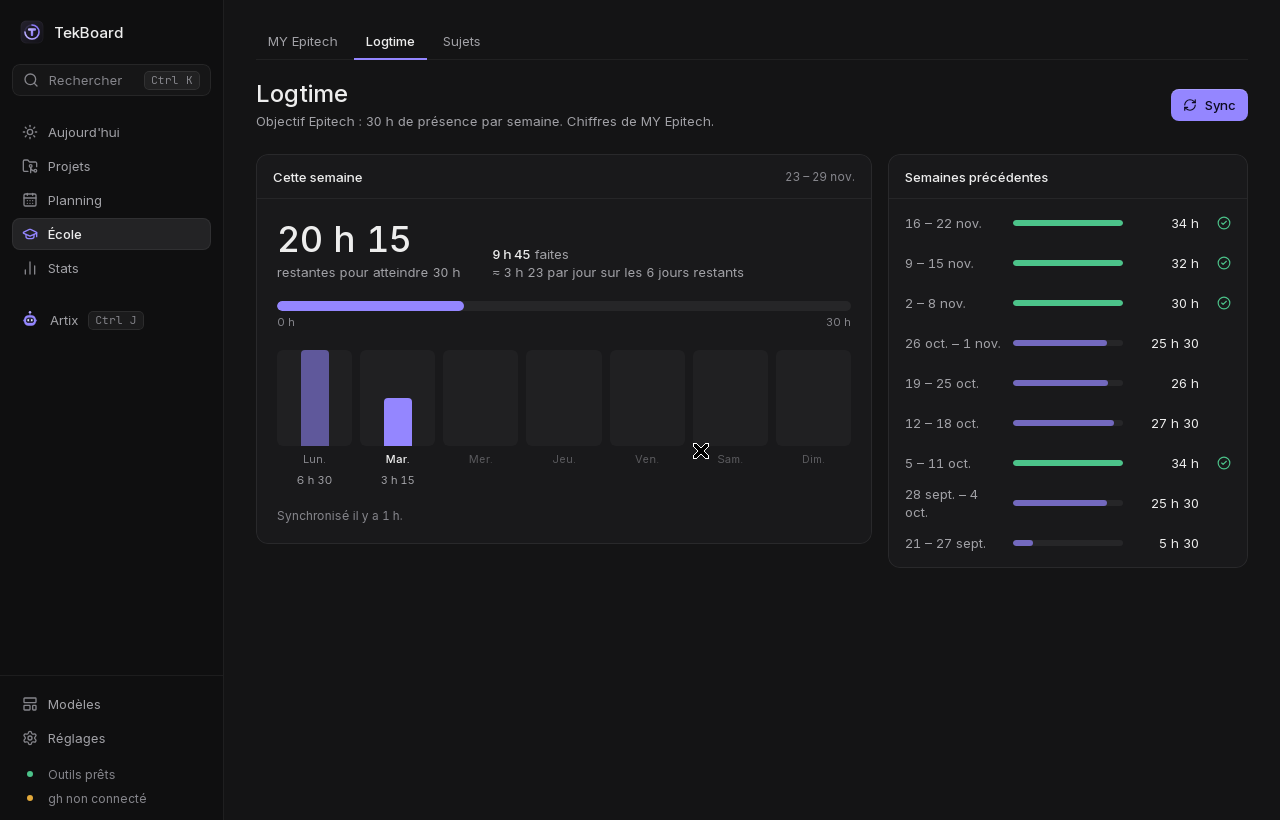
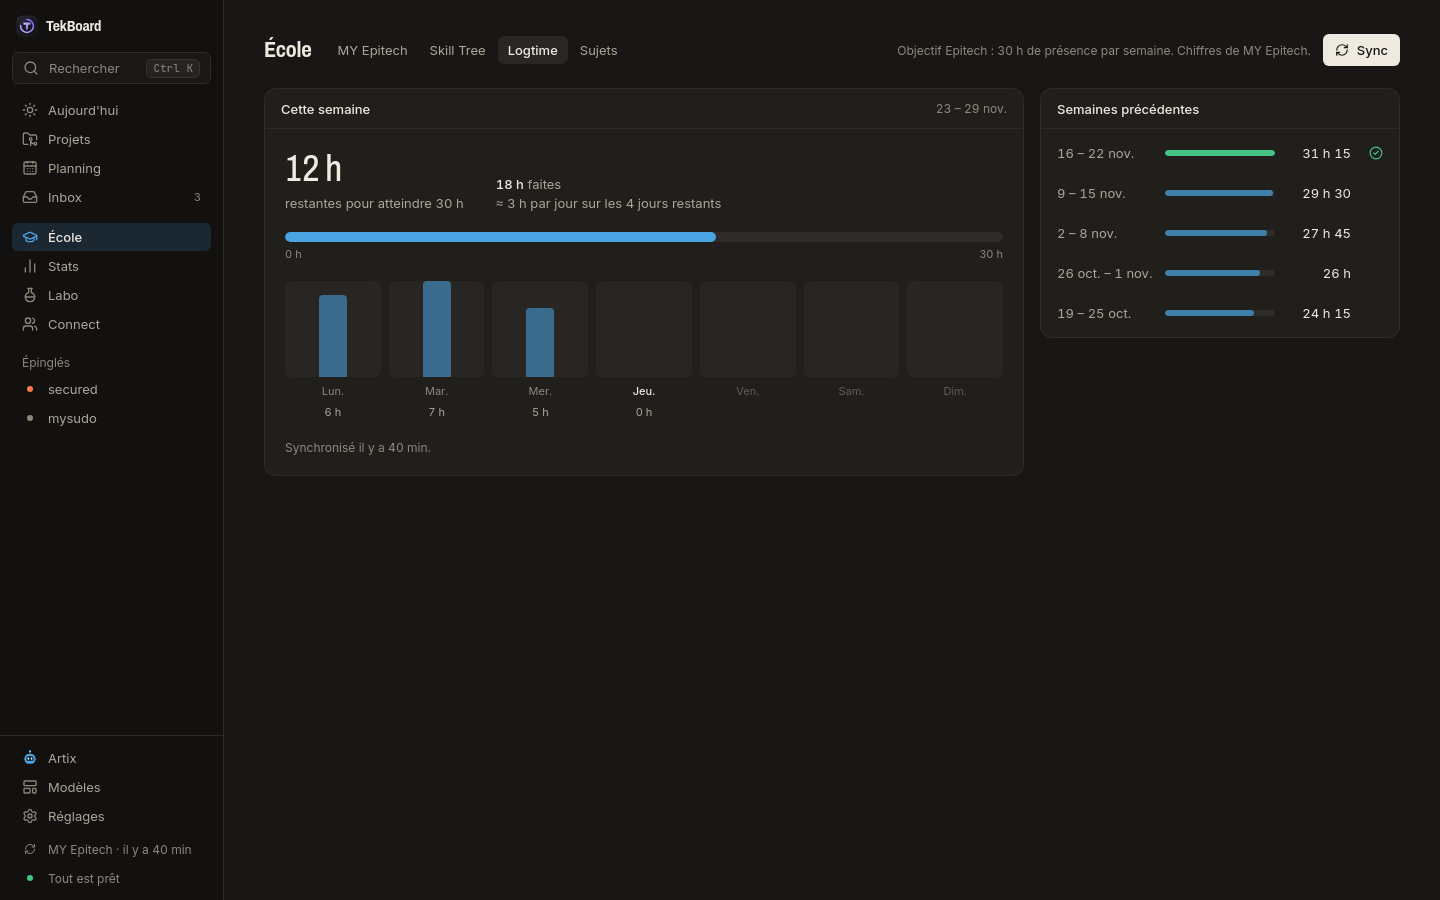
Documentation : README à jour (refonte Riso, ambiances, nouvelles captures)

diff --git a/README.md b/README.md
@@ -8,32 +8,45 @@
 
 > **Projet personnel, non officiel.** TekBoard est une application que je développe seul, dans mon coin : Thibault Eininger, étudiant à Epitech. Elle n'est ni produite, ni validée, ni soutenue par Epitech, et n'a aucun lien avec l'école. « Epitech », « MY Epitech » et les noms des modules appartiennent à leurs propriétaires ; TekBoard ne fait que lire, avec ton accord, les données de ton propre compte.
 
-![Projets](docs/screenshots/projects.png)
+![Aujourd'hui](docs/screenshots/today.png)
 
 ## Ce que fait Tekboard
 
+- **Aujourd'hui** : ta journée sur une seule page : la session en cours, ton logtime, tes crédits, le prochain rendu, le planning du jour et tes projets actifs.
 - **Projets** : tous tes dépôts Epitech au même endroit, même rangés dans des sous-dossiers (`Epitech/Maths/101pong`…), avec leur état git, leur date de rendu et ce qu'il reste à faire. Les copies en double sont repérées, jamais supprimées.
 - **Planning** : un calendrier qui place tes sessions de travail avec des pauses, des catégories à toi, et les rendus de l'école.
-- **École** : synchronisation MY Epitech en un bouton (projets, dates, sujets, résultats), **logtime** de la semaine, et le **Skill Tree** : ta progression en arbre de compétences, d'après les données officielles de MY Epitech.
+- **École** : synchronisation MY Epitech en un bouton (projets, dates, sujets, résultats), **logtime** de la semaine et **Skill Tree** (ta progression en arbre de compétences).
 - **Tests** : tests unitaires, coding style (Banana), clone propre du dépôt, et une moulinette simulée dans un bac à sable.
-- **Brain Dump** : une idée, un bug, une commande ou un lien noté en deux secondes (Ctrl+I, un raccourci global ou `tekboard capture`), sans rien choisir. Tout arrive dans une petite **Inbox** où tu ranges plus tard : tâche, note, snippet, projet, TekShare, Playground. Recherche par mots, `#tag`, `projet:`, `type:` ou date.
-- **Artix** : un assistant qui comprend « j'ai un rendez-vous jeudi à 14 h » et l'ajoute, décompose un sujet en tâches, organise ta semaine. Il fonctionne avec **Claude Code, OpenRouter (modèles gratuits) ou une IA locale** — ou pas d'IA du tout.
+- **Brain Dump** : une idée, un bug, une commande ou un lien noté en deux secondes (Ctrl+I, un raccourci global ou `tekboard capture`). Tout arrive dans l'**Inbox**, où tu ranges plus tard : tâche, note, snippet, projet, TekShare, Playground.
+- **Artix** : un assistant qui comprend « j'ai un rendez-vous jeudi à 14 h » et l'ajoute, décompose un sujet en tâches, organise ta semaine. Il fonctionne avec **Claude Code, OpenRouter (modèles gratuits) ou une IA locale**, ou sans IA du tout.
 - **Labo** :
-  - le **Playground** pour écrire et lancer du C tout de suite (sanitizers, Valgrind, bac à sable) ;
-  - l'**Arena** pour mesurer et comparer des algorithmes ou deux branches : temps, mémoire, instructions, complexité estimée ;
-  - des **tableaux blancs** pour schématiser listes chaînées, arbres, mémoire ou architecture, seul ou à plusieurs.
-- **Connect** (facultatif, désactivé par défaut) : retrouver les TekBoard de ses camarades sur le même réseau local, puis :
-  - partager des ressources avec **TekShare** ;
-  - coder ensemble dans VS Code avec **TekLive** ;
-  - se retrouver dans **TekSpace**, un petit campus en pixel art.
+  - **Playground** : écrire et lancer du C tout de suite (sanitizers, Valgrind, bac à sable) ;
+  - **Arena** : mesurer et comparer des algorithmes ou deux branches (temps, mémoire, instructions, complexité estimée) ;
+  - **Tableaux blancs** : schématiser listes chaînées, arbres, mémoire ou architecture, seul ou à plusieurs.
+- **Connect** (facultatif, désactivé par défaut) : retrouver les TekBoard de tes camarades sur le même réseau local, puis partager avec **TekShare**, coder ensemble dans VS Code avec **TekLive**, ou se retrouver dans **TekSpace**, un petit campus en pixel art.
 - **Doctor** : un diagnostic de ton environnement, avec la solution à chaque problème.
 
 Tout reste sur ton ordinateur : pas de compte TekBoard, pas de serveur, pas de télémétrie. Connect relie directement deux ordinateurs du même réseau, sans passer par Internet.
 
+### Nouveau : la refonte Riso
+
+- **Nouveau design, Riso** : deux encres sur papier, en clair, en sombre ou selon ton système. Moins de cadres, plus de place pour ton contenu.
+- **Quatre ambiances** : Sauge, Ardoise, Prune et Sumi, chacune en clair et en sombre, avec des textes toujours lisibles (contraste 4,5:1 minimum). L'option **Ambiance selon l'heure** passe d'une ambiance de jour à une ambiance du soir. Les anciens designs restent disponibles dans « Obsolètes ».
+- **Aujourd'hui à ta façon** : **Personnaliser** choisit les blocs affichés, leur ordre et les indicateurs. Un guide **Premiers pas** t'accompagne au début, et se masque.
+- **Navigation plus simple** : une entrée par section dans la barre latérale, les onglets dans la barre de page, une barre repliable (Ctrl+B), écran précédent et suivant (Alt+← / Alt+→), tous les raccourcis avec Ctrl+/.
+- **Palette plus utile (Ctrl+K)** : tes projets récents d'abord ; tape le nom d'un projet pour ses actions (fiche, IDE, terminal, Git, tests…).
+- **Annuler partout** : changement de statut, archivage, suppression, tâche cochée… un clic sur **Annuler** dans la notification.
+- **Synchro visible** : la barre latérale indique quand MY Epitech a été synchronisé ; un clic relance.
+- **Animations discrètes**, à couper dans **Réglages → Apparence → Effets et confort** (coupées aussi si ton système demande moins d'animations).
+- **Interface complète en français et en anglais.**
+
+![Les ambiances : Riso, Sauge, Ardoise, Prune et Sumi, en clair et en sombre](docs/screenshots/ambiances.png)
+
 | | |
 | --- | --- |
-| ![Logtime de la semaine](docs/screenshots/logtime.png) | ![Premier lancement](docs/screenshots/onboarding.png) |
-| ![Mises à jour](docs/screenshots/updates.png) | ![Données et sauvegarde](docs/screenshots/data.png) |
+| ![Projets](docs/screenshots/projects.png) | ![Planning, en sombre](docs/screenshots/planning.png) |
+| ![Inbox du Brain Dump](docs/screenshots/inbox.png) | ![Artix, l'assistant](docs/screenshots/artix.png) |
+| ![Logtime de la semaine](docs/screenshots/logtime.png) | ![Réglages d'apparence](docs/screenshots/appearance.png) |
 
 ## Installation rapide
 
@@ -149,7 +162,7 @@ Artix, l'assistant de TekBoard, peut utiliser l'une de ces trois IA. Le choix se
 
 Depuis le menu des applications, ou avec la commande `tekboard`. Au premier lancement, un court assistant te guide (chaque étape facultative se passe) :
 
-1. **Langue et apparence** (français ou anglais, cinq designs).
+1. **Langue et apparence** : français ou anglais, Riso ou l'une des quatre ambiances, en clair ou en sombre.
 2. **Ton environnement** : TekBoard vérifie les outils et explique ce qui manque.
 3. **MY Epitech** : tu te connectes sur le vrai site, dans une fenêtre à part. TekBoard ne voit jamais ton mot de passe.
 4. **Tes dossiers de projets** : TekBoard trouve les dépôts git qu'ils contiennent, sous-dossiers compris. Il ne déplace ni ne modifie rien.
@@ -246,6 +259,7 @@ epiclang et banana-check-repo manquent. Sur Ubuntu : `sudo add-apt-repository pp
 git clone https://github.com/ar-oxyo/tekboard-desktop.git && cd tekboard-desktop
 ./install.sh --dev   # Rust, Node.js et bibliothèques de Tauri, puis compilation et installation du .deb
 npm run app:dev      # application avec rechargement à chaud
+npx vite --port 1420 # interface seule dans le navigateur, avec des données de démonstration
 npm test             # tests du frontend
 npm run test:rust    # tests du backend
 scripts/tests/install_test.sh   # tests du script d'installation (systèmes simulés)
@@ -257,7 +271,7 @@ L'architecture est décrite dans [docs/ARCHITECTURE.md](docs/ARCHITECTURE.md).
 
 ## English
 
-TekBoard is an independent personal project by Thibault Eininger, an Epitech student — not an official Epitech product and not affiliated with or endorsed by Epitech. It is a local-first desktop dashboard for Epitech students on Linux: repositories, hand-ins, planning, weekly logtime, MY Epitech sync and Artix, an AI assistant that acts through controlled tools. Install it with one command — `curl -fsSL https://raw.githubusercontent.com/ar-oxyo/tekboard-desktop/main/install.sh | bash` — or download the `.deb` (Ubuntu/Debian) or the AppImage from the [latest release](https://github.com/ar-oxyo/tekboard-desktop/releases/latest). Artix works with Claude Code, OpenRouter (free models, never a paid one without your consent) or a local model through Ollama, or without AI at all. The interface can be switched to English during the first-run setup or in Settings.
+TekBoard is an independent personal project by Thibault Eininger, an Epitech student — not an official Epitech product and not affiliated with or endorsed by Epitech. It is a local-first desktop dashboard for Epitech students on Linux: repositories, hand-ins, planning, weekly logtime, MY Epitech sync and Artix, an AI assistant that acts through controlled tools. Install it with one command — `curl -fsSL https://raw.githubusercontent.com/ar-oxyo/tekboard-desktop/main/install.sh | bash` — or download the `.deb` (Ubuntu/Debian) or the AppImage from the [latest release](https://github.com/ar-oxyo/tekboard-desktop/releases/latest). Artix works with Claude Code, OpenRouter (free models, never a paid one without your consent) or a local model through Ollama, or without AI at all. The interface uses the Riso design and four extra ambiances (Sauge, Ardoise, Prune, Sumi), each in light and dark, and can be switched to English during the first-run setup or in Settings.
 
 ## Licence
 

diff --git a/PRODUCT.md b/PRODUCT.md
@@ -52,7 +52,7 @@ Success means a student knows what is due, what state each project is in and wha
 
 ## Evidence on Hand
 
-- Real app screenshots: `docs/screenshots/` (projects, logtime, onboarding, updates, data).
+- Real app screenshots: `docs/screenshots/` (today, projects, planning, inbox, artix, logtime, appearance, ambiances), taken from the dev demo UI.
 - Feature truth: `README.md`, `CHANGELOG.md` (releases up to 0.9.0), `docs/ARCHITECTURE.md`, `SECURITY.md`.
 - License: GPL-3.0.
 - No testimonials, user numbers, press or endorsements exist. Future work must not invent any, nor imply any link with Epitech.
